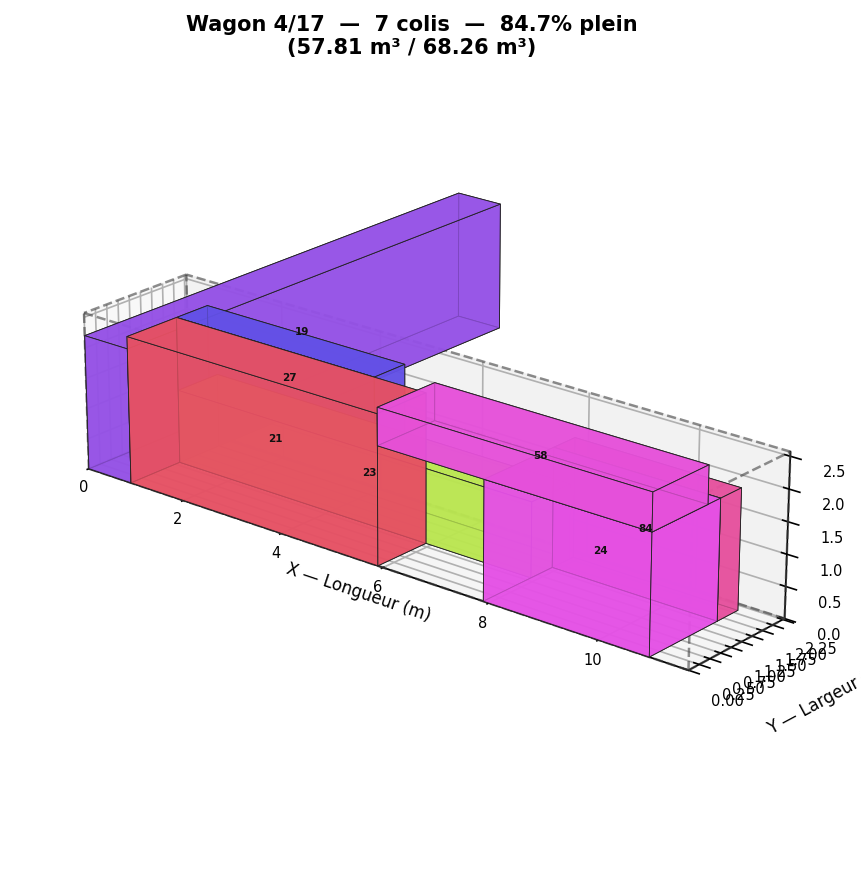
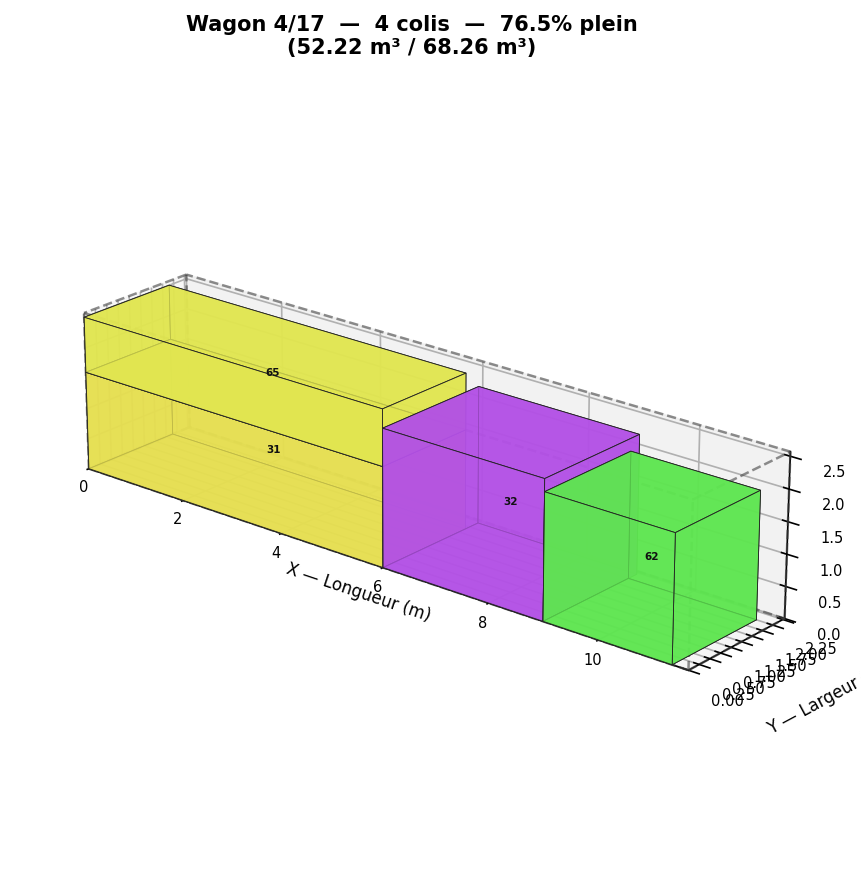
bug fix rotation

diff --git a/partie2/d3/d3_offline.py b/partie2/d3/d3_offline.py
@@ -126,7 +126,12 @@ def evaluer_liste(ordre: list, dict_items: dict, record_wagons_actuel: int) -> t
             if len(wagons) + 1 > record_wagons_actuel:
                 return float('inf'), float('inf')
             nw = Wagon()
-            rL, rl, rH = item.rotations[0]
+            chosen = next(
+                ((rL, rl, rH) for rL, rl, rH in item.rotations
+                 if rL <= L_WAG + 1e-4 and rl <= l_WAG + 1e-4 and rH <= H_WAG + 1e-4),
+                item.rotations[0]
+            )
+            rL, rl, rH = chosen
             nw.boites.append((0.0, 0.0, 0.0, rL, rl, rH))
             nw.vol_used = rL * rl * rH
             nw.coins = {(rL, 0.0, 0.0), (0.0, rl, 0.0), (0.0, 0.0, rH)}
@@ -204,7 +209,12 @@ def extraire_wagons(ordre: list, dict_items: dict) -> list[list[tuple]]:
                 if npt[0] <= L_WAG and npt[1] <= l_WAG and npt[2] <= H_WAG:
                     wagons_coins[wi].add(npt)
         else:
-            rL, rl, rH = item.rotations[0]
+            chosen = next(
+                ((rL, rl, rH) for rL, rl, rH in item.rotations
+                 if rL <= L_WAG + 1e-4 and rl <= l_WAG + 1e-4 and rH <= H_WAG + 1e-4),
+                item.rotations[0]
+            )
+            rL, rl, rH = chosen
             wagons_boites.append([(0.0, 0.0, 0.0, rL, rl, rH, oid)])
             wagons_coins.append({(rL, 0.0, 0.0), (0.0, rl, 0.0), (0.0, 0.0, rH)})
             wagons_vol.append(rL * rl * rH)

diff --git a/partie2/d3/d3_online.py b/partie2/d3/d3_online.py
@@ -125,7 +125,14 @@ def placer_item(item: Marchandise, wagons: list[Wagon]) -> None:
             return
 
     nw = Wagon()
-    rL, rl, rH = item.rotations[0]
+    chosen = None
+    for rL, rl, rH in item.rotations:
+        if rL <= L_WAG + EPS and rl <= l_WAG + EPS and rH <= H_WAG + EPS:
+            chosen = (rL, rl, rH)
+            break
+    if chosen is None:
+        chosen = item.rotations[0]
+    rL, rl, rH = chosen
     nw.boites.append((0.0, 0.0, 0.0, rL, rl, rH, item.id))
     nw.vol_used = rL * rl * rH
     nw.coins = {(rL, 0.0, 0.0), (0.0, rl, 0.0), (0.0, 0.0, rH)}
